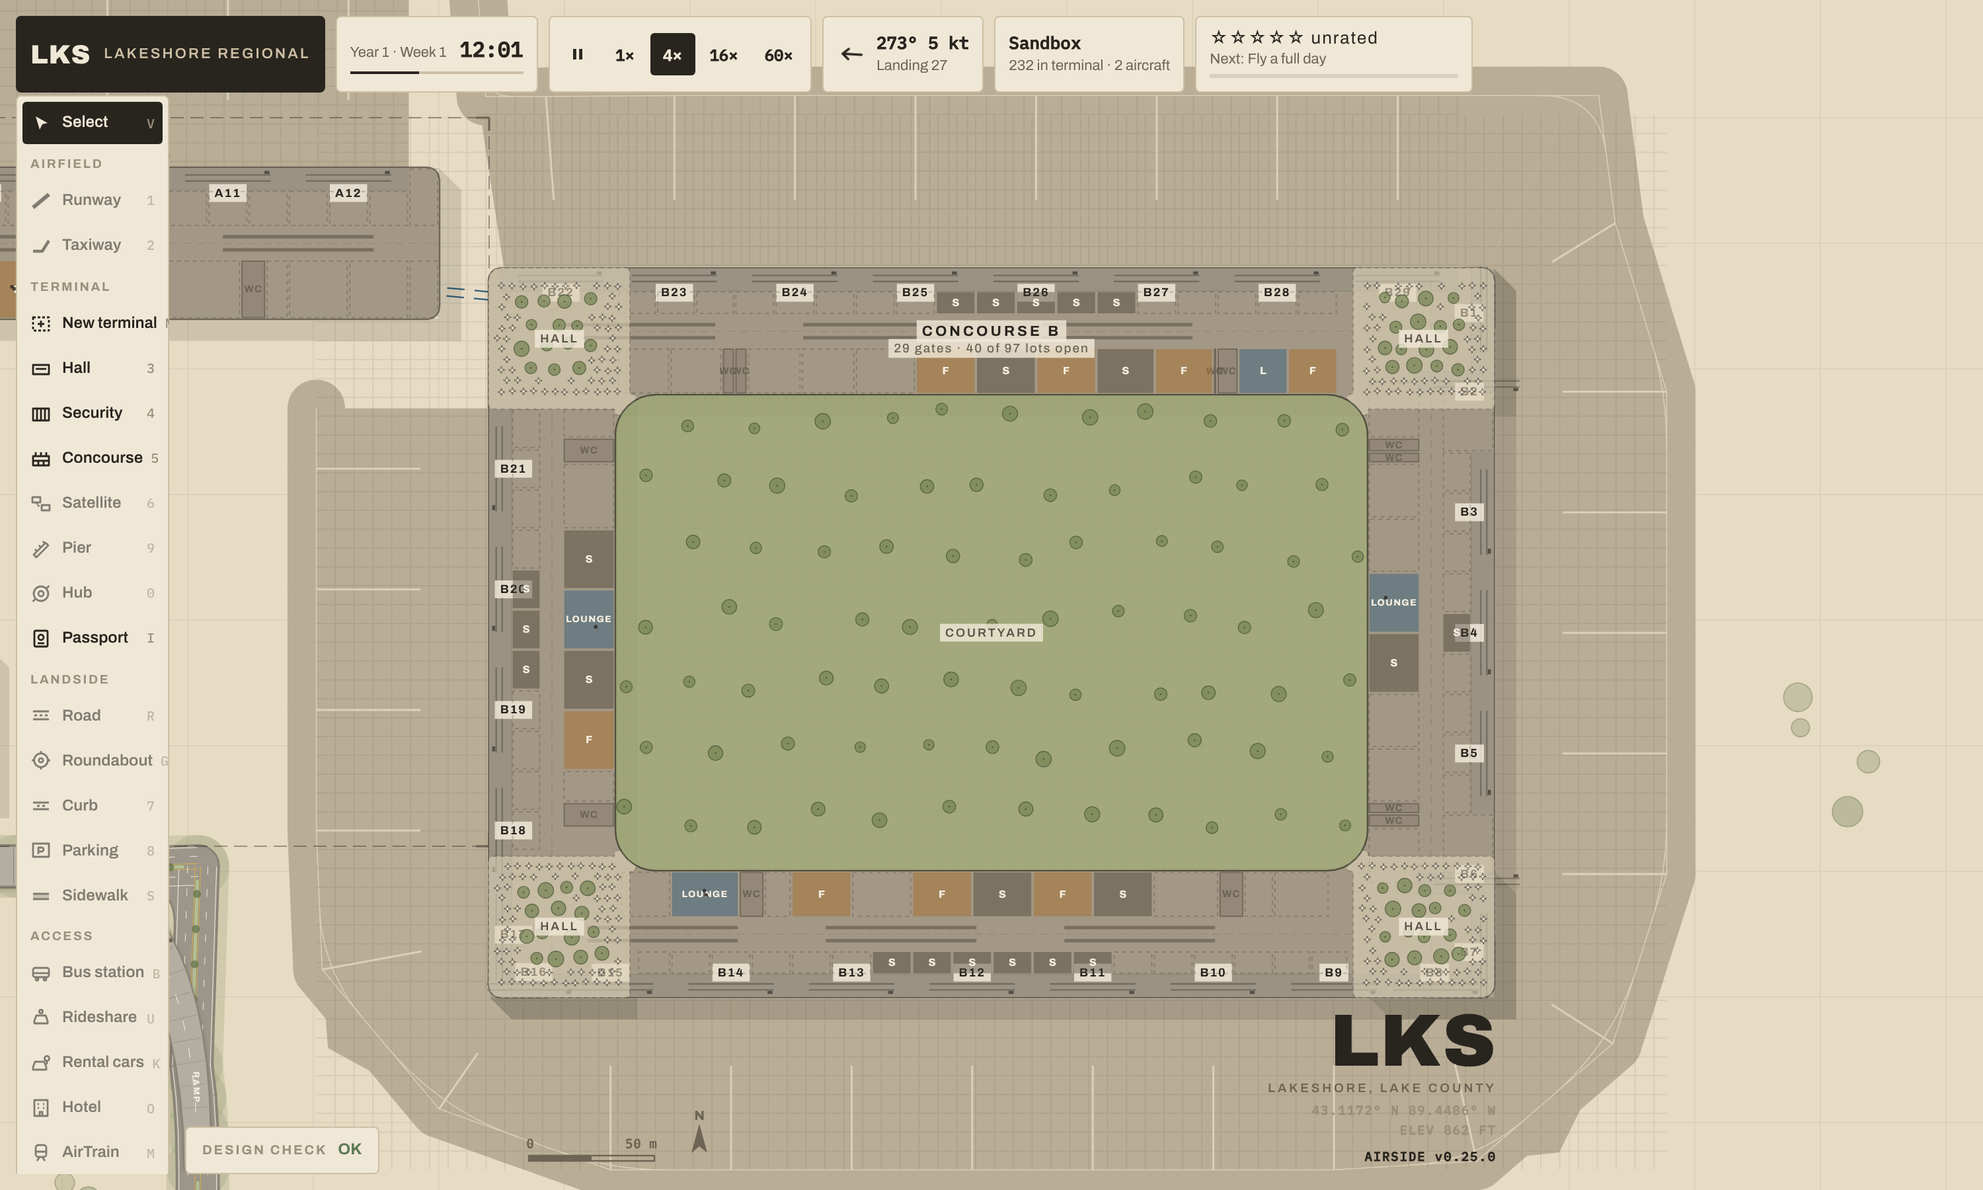
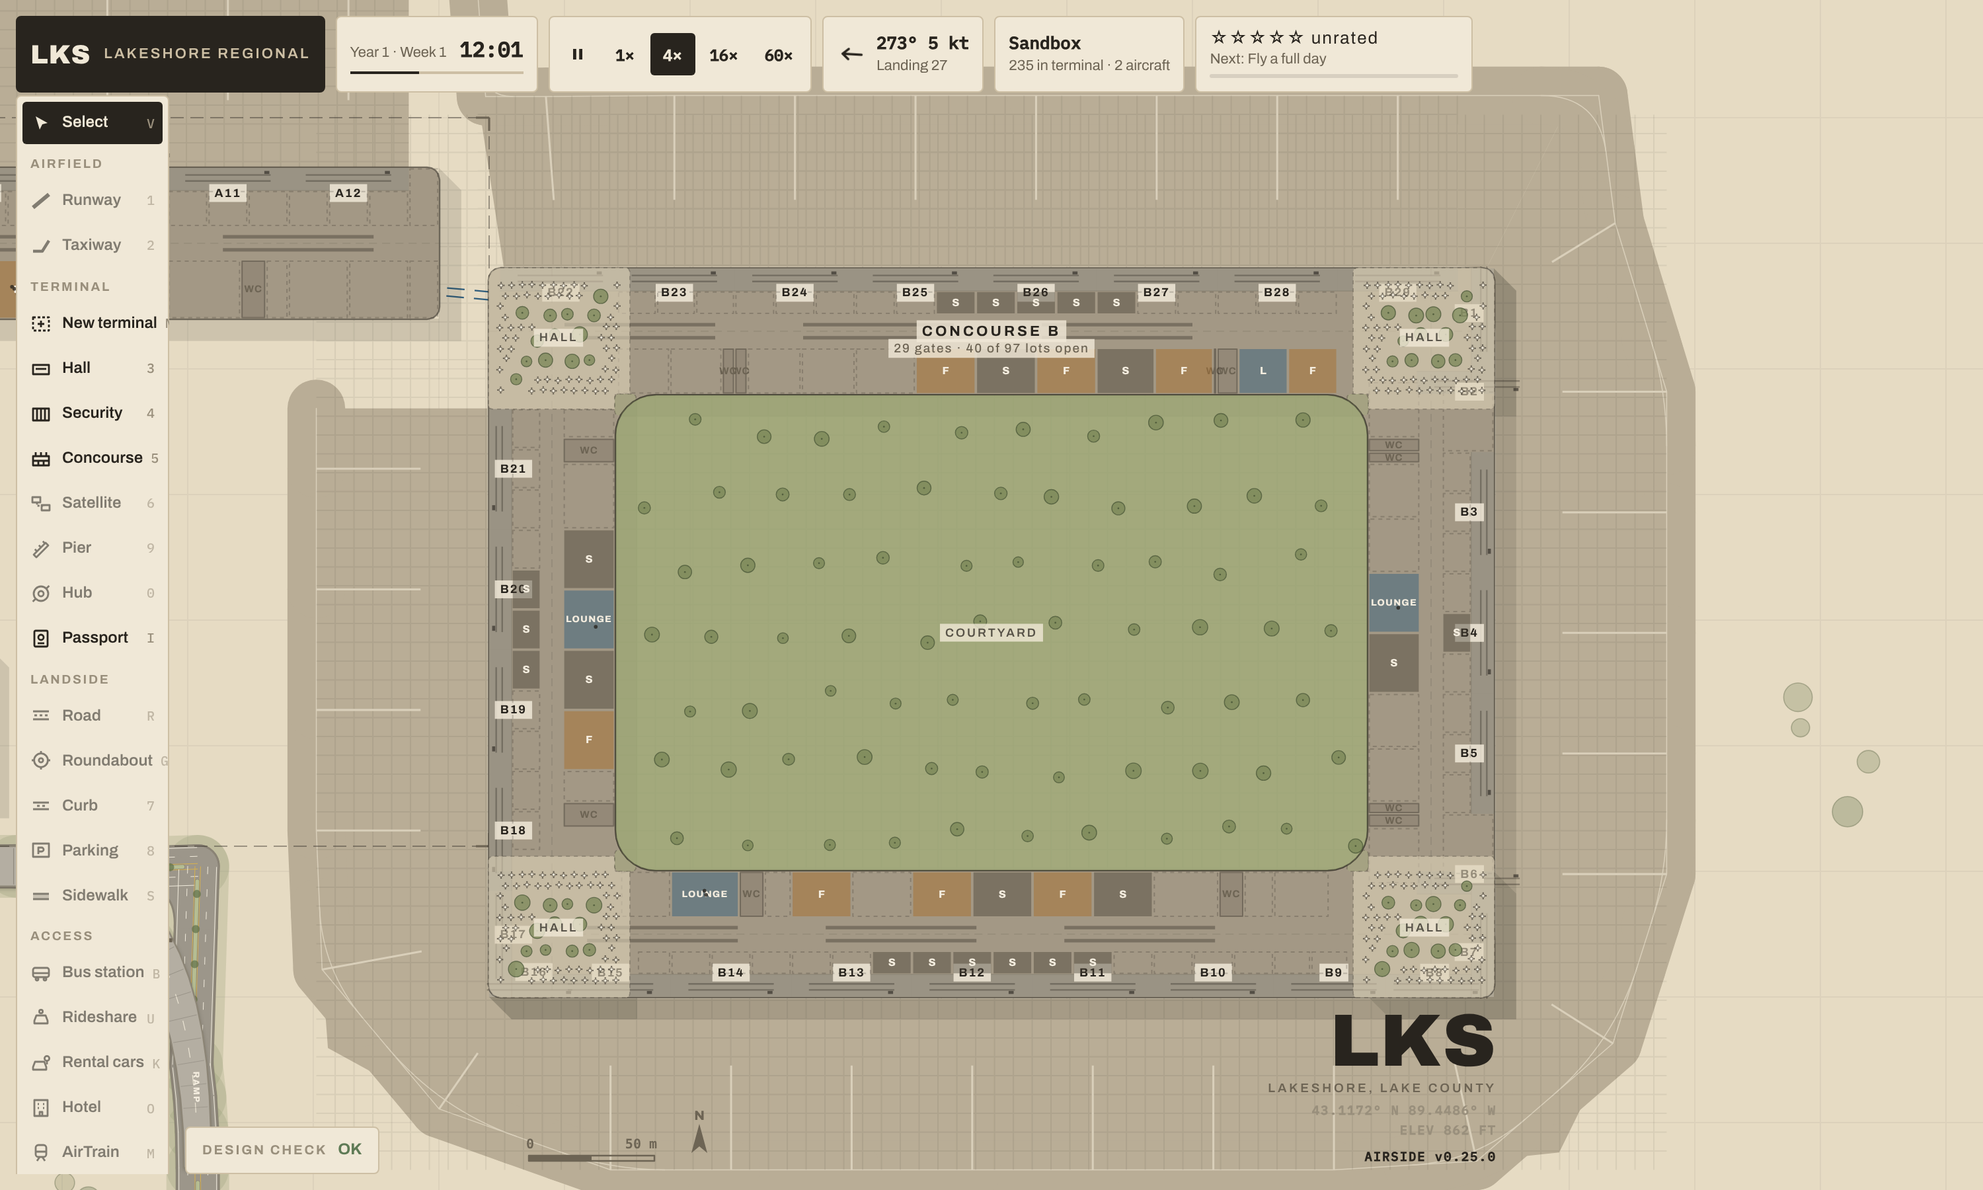
v0.25: review fixes for junction spaces
Only crossings make a junction (not a piece drawn along or inside another),
a corner hall keeps its own middle, a large filled gap is its own garden,
planting is hung on the space and memoised, and overlap tests go through
bounding boxes first.

Claude-Session: https://claude.ai/code/session_01XxijruEnEziLvLsYMktvW3

diff --git a/src/shell.ts b/src/shell.ts
@@ -71,7 +71,7 @@ export interface Junction { level: number; kind: JunctionKind; rings: Pt[][]; ou
 // A food court wants room for a ring of counters and seating between them: at 1.4–1.9 m2 a seat (the usual food-court
 // planning range; Neufert gives 1.4–1.6 m2 for self-service dining), 400 m2 seats about 150 once aisles are taken out.
 // Above 1,500 m2 the space is a hall: a planted middle with seating round it.
-export const JUNCTION = { grow: 6, min: 30, food: 400, hall: 1500, tree: 9, table: 4.2 };
+export const JUNCTION = { grow: 6, min: 30, corner: 600, food: 400, hall: 1500, tree: 9, table: 4.2 };
 
 type Ex = { outer: IPath; holes: IPath[] };
 function clip(type: number, subj: IPath[], clipP: IPath[], subjFill = ClipperLib.PolyFillType.pftNonZero, clipFill = ClipperLib.PolyFillType.pftNonZero): Ex[] {
@@ -93,12 +93,14 @@ function edgeGap(p: Pt, rings: Pt[][]) {
 }
 /** Points on a grid inside a space, each nudged a little (the same way every time), `margin` clear of its edge. */
 function seedsIn(rings: Pt[][], outer: Pt[], step: number, margin: number, jitter: number): Pt[] {
+  // (the grid is hung on the space's own middle, so its planting moves with it when the building is dragged)
+  const o = centroid(outer); rings = rings.map(r => r.map(p => ({ x: p.x - o.x, y: p.y - o.y }))); outer = rings[0];
   let x0 = Infinity, y0 = Infinity, x1 = -Infinity, y1 = -Infinity; for (const p of outer) { x0 = Math.min(x0, p.x); y0 = Math.min(y0, p.y); x1 = Math.max(x1, p.x); y1 = Math.max(y1, p.y); }
   const out: Pt[] = []; const inside = (p: Pt) => rings.reduce((n, r) => n + (inPoly(p, r) ? 1 : 0), 0) % 2 === 1;
   for (let gy = Math.floor(y0 / step); gy * step <= y1; gy++) for (let gx = Math.floor(x0 / step); gx * step <= x1; gx++) {
     const h = Math.sin(gx * 127.1 + gy * 311.7) * 43758.5453; const r1 = h - Math.floor(h); const h2 = Math.sin(gx * 269.5 + gy * 183.3) * 24634.6345; const r2 = h2 - Math.floor(h2);
     const p = { x: (gx + (gy & 1 ? 0.5 : 0)) * step + (r1 - 0.5) * jitter, y: gy * step + (r2 - 0.5) * jitter };
-    if (inside(p) && edgeGap(p, rings) >= margin) out.push(p);
+    if (inside(p) && edgeGap(p, rings) >= margin) out.push({ x: p.x + o.x, y: p.y + o.y });
   }
   return out;
 }
@@ -112,31 +114,60 @@ export function junctionsOf(shells: Shell[], zones: (Shaped & { id: number; type
     const shell = sh.rings.map(toPath); const EO = ClipperLib.PolyFillType.pftEvenOdd;
     // where two pieces overlap (a hall already has its own open middle, so a pier running into one is left to the hall)
     const cores: { ring: Pt[]; ids: number[] }[] = [];
+    const hubs = zs.map((z, i) => (z.sides ? P[i] : null)).filter((q): q is IPath => !!q);
+    const boxes = P.map(q => { let x0 = Infinity, y0 = Infinity, x1 = -Infinity, y1 = -Infinity; for (const v of q) { x0 = Math.min(x0, v.X); y0 = Math.min(y0, v.Y); x1 = Math.max(x1, v.X); y1 = Math.max(y1, v.Y); } return { x0, y0, x1, y1 }; });
+    const areas = P.map(q => Math.abs(area(fromPath(q))));
     for (let i = 0; i < zs.length; i++) for (let j = i + 1; j < zs.length; j++) {
       if (zs[i].sides || zs[j].sides) continue;
-      for (const e of clip(ClipperLib.ClipType.ctIntersection, [P[i]], [P[j]])) cores.push({ ring: fromPath(e.outer), ids: [zs[i].id, zs[j].id] });
+      const a = boxes[i], b = boxes[j]; if (a.x1 < b.x0 || b.x1 < a.x0 || a.y1 < b.y0 || b.y1 < a.y0) continue;
+      // a junction is a crossing. One piece drawn along or inside another (a concourse lengthened by drawing over
+      // its end) is just more concourse: the two run the same way, or the overlap is most of a piece.
+      const axis = (z: Shaped) => (z.rot ?? 0) + (z.w >= z.h ? 0 : Math.PI / 2);
+      if (!zs[i].bend && !zs[j].bend && Math.abs(Math.cos(axis(zs[i]) - axis(zs[j]))) > 0.94) continue;   // within 20 degrees of parallel
+      let over = clip(ClipperLib.ClipType.ctIntersection, [P[i]], [P[j]]);
+      const oa = over.reduce((n, e) => n + Math.abs(area(fromPath(e.outer))), 0);
+      if (oa > 0.5 * Math.min(areas[i], areas[j])) continue;
+      // (two legs of a path both end inside their corner hall: that part is the hall's)
+      if (hubs.length) over = clip(ClipperLib.ClipType.ctDifference, flat(over), hubs);
+      for (const e of over) if (Math.abs(area(fromPath(e.outer))) >= JUNCTION.min) cores.push({ ring: fromPath(e.outer), ids: [zs[i].id, zs[j].id] });
     }
     // floor the shell added in its inside corners
-    const fill = flat(clip(ClipperLib.ClipType.ctDifference, shell, P, EO));
+    // (a large stretch of it, like the gap closed between two piers standing close side by side, is a garden of its
+    //  own; only a corner's worth joins the junction beside it)
+    const fills = clip(ClipperLib.ClipType.ctDifference, shell, P, EO);
+    const big = fills.filter(e => Math.abs(area(fromPath(e.outer))) > JUNCTION.corner), fill = flat(fills.filter(e => !big.includes(e)));
     const grown = cores.length ? offset(cores.map(c => toPath(c.ring)), JUNCTION.grow) : [];
     let space = flat(clip(ClipperLib.ClipType.ctIntersection, flat(clip(ClipperLib.ClipType.ctUnion, [...grown, ...fill], [])), shell, ClipperLib.PolyFillType.pftNonZero, EO));
     space = offset(offset(space, -1.5), 1.5);   // slivers along a wall are not a space
-    for (const e of clip(ClipperLib.ClipType.ctUnion, space, [])) {
+    if (big.length) space = flat(clip(ClipperLib.ClipType.ctDifference, space, flat(big)));
+    for (const e of clip(ClipperLib.ClipType.ctUnion, space, [], ClipperLib.PolyFillType.pftNonZero)) {
       const outer = fromPath(e.outer); const rings = [outer, ...e.holes.map(fromPath)];
       const a = Math.abs(area(outer)) - e.holes.reduce((n, h) => n + Math.abs(area(fromPath(h))), 0); if (a < JUNCTION.min) continue;
       const mine = cores.filter(c => inPoly(centroid(c.ring), outer)); const ids = [...new Set(mine.flatMap(c => c.ids))];
       const kind: JunctionKind = !mine.length ? 'garden' : a >= JUNCTION.hall || ids.length > 2 && a >= JUNCTION.food ? 'hall' : a >= JUNCTION.food ? 'food' : 'garden';
       out.push({ level: sh.level, kind, rings, outer, area: a, c: centroid(outer), ids, seeds: plant(kind, rings, outer) });
     }
+    for (const e of clip(ClipperLib.ClipType.ctUnion, offset(offset(flat(big), -1.5), 1.5), [])) {
+      const outer = fromPath(e.outer); const rings = [outer, ...e.holes.map(fromPath)]; const a = Math.abs(area(outer)); if (a < JUNCTION.min) continue;
+      out.push({ level: sh.level, kind: 'garden', rings, outer, area: a, c: centroid(outer), ids: [], seeds: plant('garden', rings, outer) });
+    }
     // a hole right through the building is a courtyard
     for (const r of sh.rings) if (r !== sh.outer && inPoly(r[0], sh.outer) && Math.abs(area(r)) >= JUNCTION.min) out.push({ level: sh.level, kind: 'court', rings: [r], outer: r, area: Math.abs(area(r)), c: centroid(r), ids: [], seeds: plant('court', [r], r) });
   }
   return out;
 }
+// (derive runs on every frame of a drag, and planting is half the cost of a junction: a space that has not changed
+//  shape keeps the planting it had)
+const planted = new Map<string, Junction['seeds']>();
 function plant(kind: JunctionKind, rings: Pt[][], outer: Pt[]): Junction['seeds'] {
+  let k = kind; for (const r of rings) { k += '|' + r.length; for (const p of r) k += ',' + Math.round(p.x * 10) + ',' + Math.round(p.y * 10); }
+  let v = planted.get(k); if (!v) { if (planted.size > 400) planted.clear(); v = plant0(kind, rings, outer); planted.set(k, v); }
+  return v;
+}
+function plant0(kind: JunctionKind, rings: Pt[][], outer: Pt[]): Junction['seeds'] {
   const size = (p: Pt) => { const h = Math.sin(p.x * 12.9898 + p.y * 78.233) * 43758.5453; return 0.8 + 0.4 * (h - Math.floor(h)); };
   // (a large courtyard is planted more openly: about eighty trees however big it is)
-  const step = kind === 'court' ? Math.max(JUNCTION.tree, Math.sqrt(Math.abs(area(outer))) / 9) : JUNCTION.tree;
+  const step = kind === 'court' ? Math.max(JUNCTION.tree, Math.round(Math.sqrt(Math.abs(area(outer))) / 9 / 3) * 3) : JUNCTION.tree;
   const trees = (m: number) => seedsIn(rings, outer, step, m, step / 3).map(p => ({ ...p, t: 'tree' as const, s: size(p) }));
   const tables = (m: number) => seedsIn(rings, outer, JUNCTION.table, m, 0.6).map(p => ({ ...p, t: 'table' as const, s: 1 }));
   if (kind === 'garden') return trees(2.2);

diff --git a/CLAUDE.md b/CLAUDE.md
@@ -35,7 +35,7 @@ Healthy results:
 - halls.mjs shows Terminal 1 open with `G arr, L1 dep` curbs and a deck in every case but the last: a self-laid forecourt (1 frontage, 2 links, 2 ramps) on the sample and with separate check-in and claim; no forecourt where the frontage road is drawn by hand; 4 links where the road stops short and off to one side; and Terminal 1 closed with no forecourt when no road is in reach. No car uses a ramp unless it is bound for the deck. The one-rectangle terminal reports its airside edge as `n` and opens with 0 stranded.
 - satellites.mjs shows Terminal 1 open with 0 missed and 0 stranded in every case (the one-satellite case hires four agents and two screeners, because its extra gates bring a thirtieth flight); one people mover per satellite (a chain when they are in a line); every flight at satellite gates and every passenger riding when the main gates are switched off; and a concourse out of reach left as a closed Terminal 2.
 - piers.mjs shows Terminal 1 open with 0 missed, 0 stranded and nobody outside a building in every case; the 20° pier with 15–18 gates and its own lots (the merged case can miss some passengers in week 3 since v0.24: more gates bring more flights onto the same staff); no people mover when it is merged into the concourse and one when it stands apart; and every flight at pier gates when the main gates are switched off. With a round or hexagonal hub between the concourse and the pier it is still one terminal of 3 concourses with no people mover, the hub has 15–17 lots, and every flight still reaches the pier when the main gates are off.
-- aprons.mjs ends with `all checks passed`: the sample has 14 gates and none on its landside face; a 20° pier with no taxiway drawn has stands on both sides and its tip, all reaching a runway; no two stands of that merged building are within 30 m of each other, every gate has its own name, and it keeps a junction space with no shop lot in it (the one-piece sample has none); four concourses round a square enclose one courtyard with a space at each corner; a 40 m pier (no stand on its end) and a 50 m A380 concourse still reach a runway from both sides; twelve satellites all find a way out; no generated taxilane crosses a lot's own sidewalk or drive; a round hub has twelve; a runway and one concourse alone give 26 gates linked straight to the runway; a hub 500 m from anything has stands but no way out, said once; stands give way to a road; a drawn taxiway takes its side over; every flight flies from self-laid gates with 0 missed when the main gates are off; and the grips keep the far end or the opposite edge where it was.
+- aprons.mjs ends with `all checks passed`: the sample has 14 gates and none on its landside face; a 20° pier with no taxiway drawn has stands on both sides and its tip, all reaching a runway; no two stands of that merged building are within 30 m of each other, every gate has its own name, and it keeps a junction space with no shop lot in it (the one-piece sample has none); four concourses round a square enclose one courtyard with a space at each corner; a concourse lengthened by drawing over its end has none, a corner hall keeps its own middle, and two fingers 20 m apart each get their own; a 40 m pier (no stand on its end) and a 50 m A380 concourse still reach a runway from both sides; twelve satellites all find a way out; no generated taxilane crosses a lot's own sidewalk or drive; a round hub has twelve; a runway and one concourse alone give 26 gates linked straight to the runway; a hub 500 m from anything has stands but no way out, said once; stands give way to a road; a drawn taxiway takes its side over; every flight flies from self-laid gates with 0 missed when the main gates are off; and the grips keep the far end or the opposite edge where it was.
 - curves.mjs ends with `all checks passed`: straightening a point and bending it back is exact; the bend grip leaves both ends where they are and stops at the tightest radius the width allows; a 500 m pier bent 120 m has more stands on the outside of the bend than the inside, every one reaching a runway, every lot inside the building, and is one terminal with the concourse it was drawn out of; a bend too tight has no stands on its inside; a straight pier drawn out of a bent one makes a terminal of three concourses with no people mover; a 60 m pier with a 40 m taper is 40 m wide at one end and 80 m at the other; an end grip changes one end's width and leaves the other end and the centreline alone; two legs and a corner hall drawn as a path out of the concourse are one terminal with no people mover; straight and bent tapered piers have stands on both walls that all reach a runway, with every door and lot inside and every stand outside; and with the main gates off every flight flies from the bent pier with 0 missed, 0 stranded and nobody outside a building.
 - stress.mjs strands passengers on purpose on the day it moves check-in (arrivals too since v0.14, because the hall's curbs go with it), and on the days it cuts the road or the taxiway. Cutting the walkways no longer strands anyone, because the lot lays its own sidewalk (v0.9). That is expected.
 
@@ -135,7 +135,7 @@ Healthy results:
   - Grips: `m` bends (ends fixed); `a` / `b` keep the bend as far as the new length allows; `n` / `s` widen about the centreline. `canTurn(z)` is a concourse with no `sides` that has no `site` or is already turned or bent.
 - **Shells** (shell.ts, v0.23): the direction the building model is moving in. A building is whatever its shapes add up to: `shellsOf(zones)` unions every concourse zone on a level (Clipper), then offsets out and in by `SHELL.fillet` to fill inside corners and in and out by `SHELL.ease` to round outside ones. Each connected result is a `Shell { level, ids, rings, outer }` (`rings` are outer boundaries and holes together: fill even-odd). `d.shells` / `d.shellOf` carry them.
   - v0.24: stands walk the shell. `derive` passes every shell of two or more pieces to `buildGateAreas` as `walks`; those pieces skip the per-side logic altogether, and `selfAprons` steps along `Shell.outer` instead: a stand takes the stretch of wall that puts its wings one spacing apart, its cell is the wedge between the wall's normals at its edges, it is sized for the piece its door is in, and it is refused if the cell overlaps any other accepted cell, the building itself, another building, an apron, `keep`, a taxiway or the runway strip, or sits on a straight wall a landside module stands against. A taxiway roughly parallel along the normal within `sideReach` is the stand's lane (`drawn`, downsized to fit); such runs get no generated lane and their apron is not `self`. Keys: side letter and half-spacing index along that wall in the owner piece's frame (hubs: facet and count), so interiors, which are still per piece, find their gates. Runs go through the same join / waysOut / fallback code; a walked run of one or two stands with no way out is removed. One-piece buildings must stay byte-identical: the sample and the first eight sim scripts' one-piece cases are the check.
-  - v0.25: junction spaces. `junctionsOf(shells, zones)` (shell.ts) gives each building of two or more pieces the spaces it keeps for itself, as `d.junctions`: the overlap of every two pieces that are not hubs, grown by `JUNCTION.grow`, together with the floor the shell's fillets added, clipped to the shell; each connected result is a `Junction { kind, rings, outer, area, c, ids, seeds }`, a `garden`, `food` court or `hall` by area (`JUNCTION`), and a fillet touching no overlap is a `garden`. A hole in the shell is a `court`. `seeds` are its trees and tables, on a nudged grid, the same every time. derive drops any shop lot whose centre is in one (`inJunction`); render.ts draws them over the floor in the upright plan. Nothing else reads them yet: the sim does not.
+  - v0.25: junction spaces. `junctionsOf(shells, zones)` (shell.ts) gives each building of two or more pieces the spaces it keeps for itself, as `d.junctions`: the overlap of every two pieces that cross (not hubs, not within 20° of parallel, not most of either piece; less any hub's outline), grown by `JUNCTION.grow`, together with the floor the shell's fillets added (a fillet over `JUNCTION.corner` is a garden of its own), clipped to the shell; each connected result is a `Junction { kind, rings, outer, area, c, ids, seeds }`, a `garden`, `food` court or `hall` by area (`JUNCTION`), and a fillet touching no overlap is a `garden`. A hole in the shell is a `court`. `seeds` are its trees and tables, on a nudged grid hung on the space's centroid, the same every time and memoised by outline (derive runs every frame of a drag). derive drops any shop lot whose centre is in one (`inJunction`); render.ts draws them over the floor in the upright plan. Nothing else reads them yet: the sim does not.
   - So far the shell is used for drawing (the plan view fills and strokes each shell once and skips its pieces' own bodies and parapets; 3D adds one roof slab), for naming (`buildGateAreas` takes `group`: pieces of one shell share a gate letter and one run of gate numbers; the plan labels a multi-piece building once), and nothing else.
   - Planned, in order: the rest of the interior planned for the whole shell (holdrooms and spines that stop at a junction space, junction spaces that trade and hold passengers); halls and security joining the shell; then the landside (a curved forecourt, decks that split and rejoin, one road renderer). New drawing tools (free-drawn areas, cut-outs) should add to or take from the shell, not add another kind of piece that everything must learn.
 - **A path of piers** (ui.ts, v0.22): with `opt.pierPath` the Pier tool takes clicks, not a drag. `this.path` holds the corners so far; `pathZones(pts)` turns them into a pier a leg and a round hall (`sides: 32`, at least `HALL.minDia` across) at each corner between two legs; `pathPreview` shows them as a live draft; `pathBuild` adds them all with one `changed()`. Nothing new is saved: a path is ordinary piers and hubs that merge by overlap. `cancelDrag()` also gives up a path.

diff --git a/README.md b/README.md
@@ -43,6 +43,7 @@ There is no server. The build is one self-contained HTML file (~840 KB), with th
   - **Junction spaces.** Where two pieces of a building run into each other, the overlap and a few metres round it are kept clear as one open space that belongs to the building, not to either piece. By size it is a winter garden (under 400 m²), a food court (400–1,500 m²) or a hall with planting in the middle and seating round it (over 1,500 m², or where three pieces meet).
   - **Planted corners.** The floor the rounded outline adds in an inside corner joins the junction space next to it, or becomes a small garden of its own.
   - **Courtyards.** A hole enclosed by the building (four concourses round a square, a triangle between three piers) is a courtyard garden, open to the sky.
+  - Only a crossing counts: a concourse lengthened by drawing another over its end is just more concourse, and a round corner hall keeps its own middle.
   - No shop lot stands in any of these spaces, so the way through a junction is open.
   - Shown in the plan view at landside and terminal zoom, with trees, tables and a name. A building of one piece has none and is unchanged.
 
